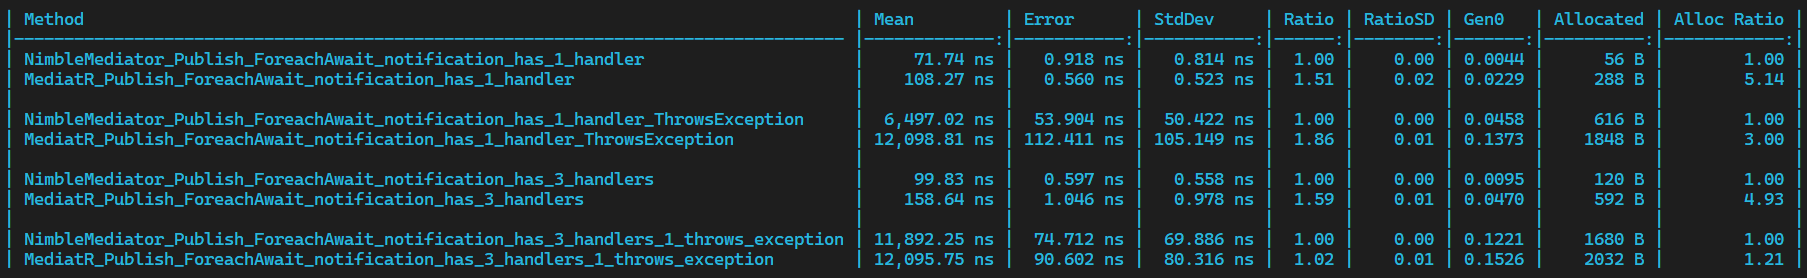
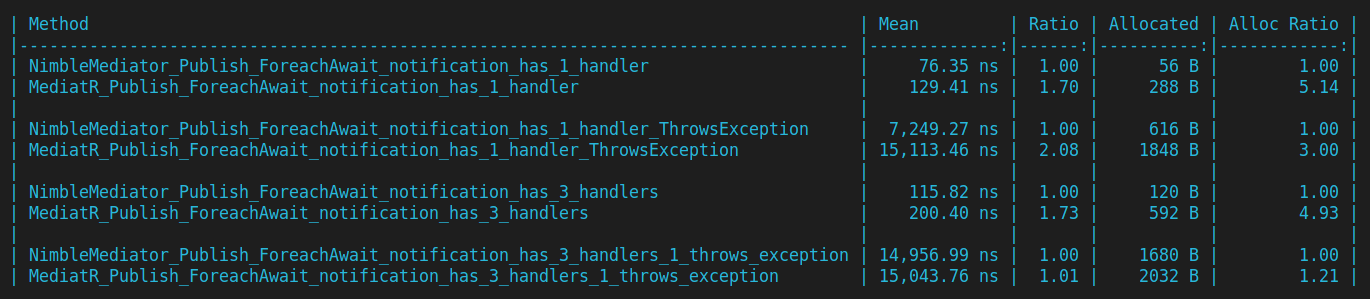
Breaking: v1.2.0 released. See the CHANGELOG.md

diff --git a/src/NimbleMediator/ServiceExtensions/NimbleMediatorConfig.cs b/src/NimbleMediator/ServiceExtensions/NimbleMediatorConfig.cs
@@ -2,6 +2,7 @@
 using Microsoft.Extensions.DependencyInjection;
 using Microsoft.Extensions.DependencyInjection.Extensions;
 using NimbleMediator.Contracts;
+using NimbleMediator.Implementations;
 using NimbleMediator.NotificationPublishers;
 
 namespace NimbleMediator.ServiceExtensions;
@@ -12,16 +13,13 @@ namespace NimbleMediator.ServiceExtensions;
 public class NimbleMediatorConfig
 {
     private readonly IServiceCollection _services;
-    private readonly Dictionary<Type, Type> _publisherTypeMappings;
+    private readonly Dictionary<Type, Type> _publisherTypeMappings = new();
     private Type _defaultPublisherType = typeof(ForeachAwaitRobustPublisher);
     private ServiceLifetime _defaultPublisherLifetime = ServiceLifetime.Singleton;
+    private ServiceLifetime _mediatorLifetime = ServiceLifetime.Scoped;
     private readonly HashSet<Assembly> _assemblies = new();
 
-    public NimbleMediatorConfig(IServiceCollection services, Dictionary<Type, Type> publisherTypeMappings)
-    {
-        _services = services;
-        _publisherTypeMappings = publisherTypeMappings;
-    }
+    public NimbleMediatorConfig(IServiceCollection services) => _services = services;
 
     /// <summary>
     /// Registers all requests, notifications and respective handlers from the given assembly.
@@ -42,21 +40,10 @@ public class NimbleMediatorConfig
     }
 
     /// <summary>
-    /// The public Register methods are actually just adds assemblies to a hashset, not registering them immediately.
-    /// This is needed for the config to not to be dependent on the order of the calls.
-    /// This method is called internally to register all marked assemblies.
+    /// Sets the lifetime of the mediator implementation and IMediator, ISender, IPublisher interfaces.
     /// </summary>
-    internal void RegisterServicesInternal()
-    {
-        foreach (var assembly in _assemblies)
-        {
-            RegisterRequestsFromAssembly(assembly);
-            RegisterNotificationsFromAssembly(assembly);
-        }
-
-        // Register default publisher type if not provided by user.
-        TryAdd(_services, _defaultPublisherType, _defaultPublisherLifetime);
-    }
+    /// <param name="lifetime"></param>
+    public void SetMediatorLifetime(ServiceLifetime lifetime) => _mediatorLifetime = lifetime;
 
     /// <summary>
     /// Sets the default publisher type for notifications.
@@ -98,6 +85,48 @@ public class NimbleMediatorConfig
         TryAdd(_services, publisherType, lifetime ?? _defaultPublisherLifetime);
     }
 
+    /// <summary>
+    /// The public Register methods are actually just adds assemblies to a hashset, not registering them immediately.
+    /// This is needed for the config to not to be dependent on the order of the calls.
+    /// This method is called internally to register all marked assemblies.
+    /// </summary>
+    internal void RegisterServicesInternal()
+    {
+        RegisterMediatorImplementationAndInterfaces(_services, _mediatorLifetime, _publisherTypeMappings);
+
+        foreach (var assembly in _assemblies)
+        {
+            RegisterRequestsFromAssembly(assembly);
+            RegisterNotificationsFromAssembly(assembly);
+        }
+
+        // Register default publisher type if not provided by user.
+        TryAdd(_services, _defaultPublisherType, _defaultPublisherLifetime);
+    }
+
+    private static void RegisterMediatorImplementationAndInterfaces(IServiceCollection services, ServiceLifetime mediatorLifetime, Dictionary<Type, Type> publisherTypeMappings)
+    {
+        services.Add(
+            new ServiceDescriptor(typeof(Mediator),
+            sp => new Mediator(sp, publisherTypeMappings),
+            mediatorLifetime));
+
+        services.Add(
+            new ServiceDescriptor(typeof(IMediator),
+            sp => sp.GetRequiredService<Mediator>(),
+            mediatorLifetime));
+
+        services.Add(
+            new ServiceDescriptor(typeof(ISender),
+            sp => sp.GetRequiredService<Mediator>(),
+            mediatorLifetime));
+
+        services.Add(
+            new ServiceDescriptor(typeof(IPublisher),
+            sp => sp.GetRequiredService<Mediator>(),
+            mediatorLifetime));
+    }
+
     private void RegisterRequestsFromAssembly(Assembly assembly)
     {
         foreach (var type in assembly.GetTypes())
@@ -127,10 +156,8 @@ public class NimbleMediatorConfig
 
                     _services.AddTransient(@interface, handlerType);
 
-                    if (!_publisherTypeMappings.ContainsKey(notificationType))
-                    {
-                        _publisherTypeMappings.Add(notificationType, _defaultPublisherType);
-                    }
+                    _publisherTypeMappings.TryAdd(notificationType, _defaultPublisherType);
+
                 }
             }
         }

diff --git a/src/tests/NimbleMediator.Tests/ServiceCollectionExtensionsTests.cs b/src/tests/NimbleMediator.Tests/ServiceCollectionExtensionsTests.cs
@@ -1,11 +1,10 @@
 using System.Runtime.Serialization;
 using Microsoft.Extensions.DependencyInjection;
+using Microsoft.Extensions.DependencyInjection.Extensions;
 using NimbleMediator.Contracts;
 using NimbleMediator.NotificationPublishers;
 using NimbleMediator.ServiceExtensions;
 namespace NimbleMediator.Tests;
-
-
 
 public class ServiceCollectionExtensionsTests
 {
@@ -14,10 +13,7 @@ public class ServiceCollectionExtensionsTests
     {
         var services = new ServiceCollection();
 
-        services.AddNimbleMediator(config =>
-        {
-            config.RegisterServicesFromAssembly(typeof(MyRequestWithResponse).Assembly);
-        });
+        services.AddNimbleMediator(config => config.RegisterServicesFromAssembly(typeof(MyRequestWithResponse).Assembly));
 
         _serviceProvider = services.BuildServiceProvider();
     }
@@ -34,6 +30,22 @@ public class ServiceCollectionExtensionsTests
     }
 
     [Fact]
+    public void ISender_Should_Be_Scoped_By_Default()
+    {
+
+        var serviceCollection = new ServiceCollection();
+        serviceCollection.AddNimbleMediator(config =>
+        {
+            config.RegisterServicesFromAssembly(typeof(MyRequestWithResponse).Assembly);
+        });
+
+        var sender = serviceCollection.FirstOrDefault(x => x.ServiceType == typeof(ISender));
+
+        Assert.NotNull(sender);
+        Assert.True(sender.Lifetime == ServiceLifetime.Scoped);
+    }
+
+    [Fact]
     public void DI_Should_Resolve_IPublisher()
     {
         var publisher = _serviceProvider.GetService<IPublisher>();
@@ -43,12 +55,44 @@ public class ServiceCollectionExtensionsTests
     }
 
     [Fact]
+    public void IPublisher_Should_Be_Scoped_By_Default()
+    {
+
+        var serviceCollection = new ServiceCollection();
+        serviceCollection.AddNimbleMediator(config =>
+        {
+            config.RegisterServicesFromAssembly(typeof(MyRequestWithResponse).Assembly);
+        });
+
+        var publisher = serviceCollection.FirstOrDefault(x => x.ServiceType == typeof(IPublisher));
+
+        Assert.NotNull(publisher);
+        Assert.True(publisher.Lifetime == ServiceLifetime.Scoped);
+    }
+
+    [Fact]
     public void DI_Should_Resolve_IMediator()
     {
         var mediator = _serviceProvider.GetService<IMediator>();
 
         Assert.NotNull(mediator);
         Assert.True(mediator is IMediator m);
+    }
+
+    [Fact]
+    public void IMediator_Should_Be_Scoped_By_Default()
+    {
+
+        var serviceCollection = new ServiceCollection();
+        serviceCollection.AddNimbleMediator(config =>
+        {
+            config.RegisterServicesFromAssembly(typeof(MyRequestWithResponse).Assembly);
+        });
+
+        var mediator = serviceCollection.FirstOrDefault(x => x.ServiceType == typeof(IMediator));
+
+        Assert.NotNull(mediator);
+        Assert.True(mediator.Lifetime == ServiceLifetime.Scoped);
     }
 
     [Fact]
@@ -122,4 +166,54 @@ public class ServiceCollectionExtensionsTests
         Assert.True(notificationHandler is TaskWhenAllPublisher publisher);
     }
 
+    [Fact]
+    public void Mediator_Should_Have_Singleton_If_Set_Explicitly()
+    {
+        var services = new ServiceCollection();
+
+        services.AddNimbleMediator(config =>
+        {
+            config.SetMediatorLifetime(ServiceLifetime.Singleton);
+            config.RegisterServicesFromAssembly(typeof(MyRequestWithResponse).Assembly);
+        });
+
+        var mediator = services.FirstOrDefault(x => x.ServiceType == typeof(IMediator));
+
+        Assert.NotNull(mediator);
+        Assert.True(mediator.Lifetime == ServiceLifetime.Singleton);
+    }
+
+    [Fact]
+    public void Mediator_Should_Have_Scoped_If_Set_Explicitly()
+    {
+        var services = new ServiceCollection();
+
+        services.AddNimbleMediator(config =>
+        {
+            config.SetMediatorLifetime(ServiceLifetime.Scoped);
+            config.RegisterServicesFromAssembly(typeof(MyRequestWithResponse).Assembly);
+        });
+
+        var mediator = services.FirstOrDefault(x => x.ServiceType == typeof(IMediator));
+
+        Assert.NotNull(mediator);
+        Assert.True(mediator.Lifetime == ServiceLifetime.Scoped);
+    }
+
+    [Fact]
+    public void Mediator_Should_Have_Transient_If_Set_Explicitly()
+    {
+        var services = new ServiceCollection();
+
+        services.AddNimbleMediator(config =>
+        {
+            config.SetMediatorLifetime(ServiceLifetime.Transient);
+            config.RegisterServicesFromAssembly(typeof(MyRequestWithResponse).Assembly);
+        });
+
+        var mediator = services.FirstOrDefault(x => x.ServiceType == typeof(IMediator));
+
+        Assert.NotNull(mediator);
+        Assert.True(mediator.Lifetime == ServiceLifetime.Transient);
+    }
 }

diff --git a/src/NimbleMediator/ServiceExtensions/ServiceExtensions.cs b/src/NimbleMediator/ServiceExtensions/ServiceExtensions.cs
@@ -9,19 +9,7 @@ public static class ServiceCollectionExtensions
 {
     public static IServiceCollection AddNimbleMediator(this IServiceCollection services, Action<NimbleMediatorConfig> configAction)
     {
-        var publisherTypeMappings = new Dictionary<Type, Type>();
-        services.AddSingleton(publisherTypeMappings);
-
-        services.AddSingleton(sp =>
-            new Mediator(
-                    sp,
-                    sp.GetRequiredService<Dictionary<Type, Type>>()));
-
-        services.AddSingleton<ISender>(sp => sp.GetRequiredService<Mediator>());
-        services.AddSingleton<IPublisher>(sp => sp.GetRequiredService<Mediator>());
-        services.AddSingleton<IMediator>(sp => sp.GetRequiredService<Mediator>());
-
-        var config = new NimbleMediatorConfig(services, publisherTypeMappings);
+        var config = new NimbleMediatorConfig(services);
 
         configAction(config);
 

diff --git a/benchmarks/MediatorsBenchmark/ForeachAwaitBenchmark.cs b/benchmarks/MediatorsBenchmark/ForeachAwaitBenchmark.cs
@@ -1,5 +1,6 @@
 using BenchmarkDotNet.Attributes;
 using BenchmarkDotNet.Configs;
+using MediatorsBenchmark;
 using Microsoft.Extensions.DependencyInjection;
 using NimbleMediator;
 using NimbleMediator.NotificationPublishers;
@@ -9,6 +10,7 @@ namespace MediatorsBenchmark;
 
 [MemoryDiagnoser]
 [GroupBenchmarksBy(BenchmarkLogicalGroupRule.ByCategory)]
+[HideColumns(new string[] { "Error", "StdDev", "RatioSD", "Gen0" })]
 public class ForeachAwaitBenchmark
 {
     public ForeachAwaitBenchmark()

diff --git a/benchmarks/MediatorsBenchmark/TaskWhenAllBenchmark.cs b/benchmarks/MediatorsBenchmark/TaskWhenAllBenchmark.cs
@@ -10,6 +10,7 @@ namespace MediatorsBenchmark;
 
 [MemoryDiagnoser]
 [GroupBenchmarksBy(BenchmarkLogicalGroupRule.ByCategory)]
+[HideColumns(new string[] { "Error", "StdDev", "RatioSD", "Gen0" })]
 public class TaskWhenAllBenchmark
 {
     public TaskWhenAllBenchmark()

diff --git a/benchmarks/MediatorsBenchmark/SendBenchmark.cs b/benchmarks/MediatorsBenchmark/SendBenchmark.cs
@@ -10,6 +10,7 @@ namespace MediatorsBenchmark;
 
 [MemoryDiagnoser]
 [GroupBenchmarksBy(BenchmarkLogicalGroupRule.ByCategory)]
+[HideColumns(new string[] { "Error", "StdDev", "RatioSD", "Gen0" })]
 public class SendBenchmark
 {
     public SendBenchmark()

diff --git a/src/tests/NimbleMediator.Tests/SenderTests.cs b/src/tests/NimbleMediator.Tests/SenderTests.cs
@@ -11,8 +11,6 @@ public class SenderTests
     }
     private readonly ISender _sender;
 
-
-
     [Fact]
     public async Task SendAsync_Should_Handle_Request()
     {

diff --git a/CHANGELOG.md b/CHANGELOG.md
@@ -14,3 +14,7 @@
 - Overhauled notification handling; now supports notification publisher implementations via INotificationPublisher. Now maintains a Dictionary<Type, Type> for notifications.
 - Added 3 default notification publishers: ForeachAwaitRobustPublisher, ForeachAwaitStopOnFirstExceptionPublisher, and TaskWhenAllPublisher.
 - Made minor changes to method names and signatures in NimbleMediatorConfig.
+
+## [1.2.0]
+- Mediator implementation was singleton before, with this version it is **scoped** by default.
+- Added an api for explicitly setting the desired lifetime of the mediator.
